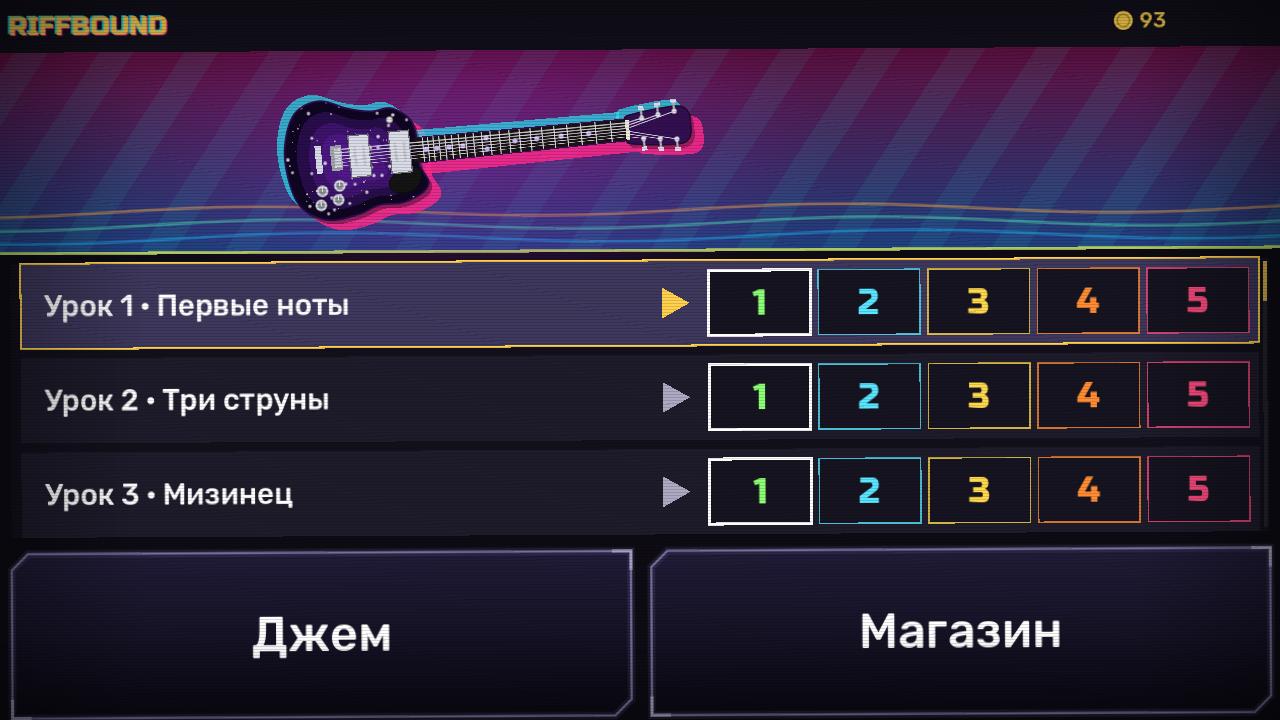
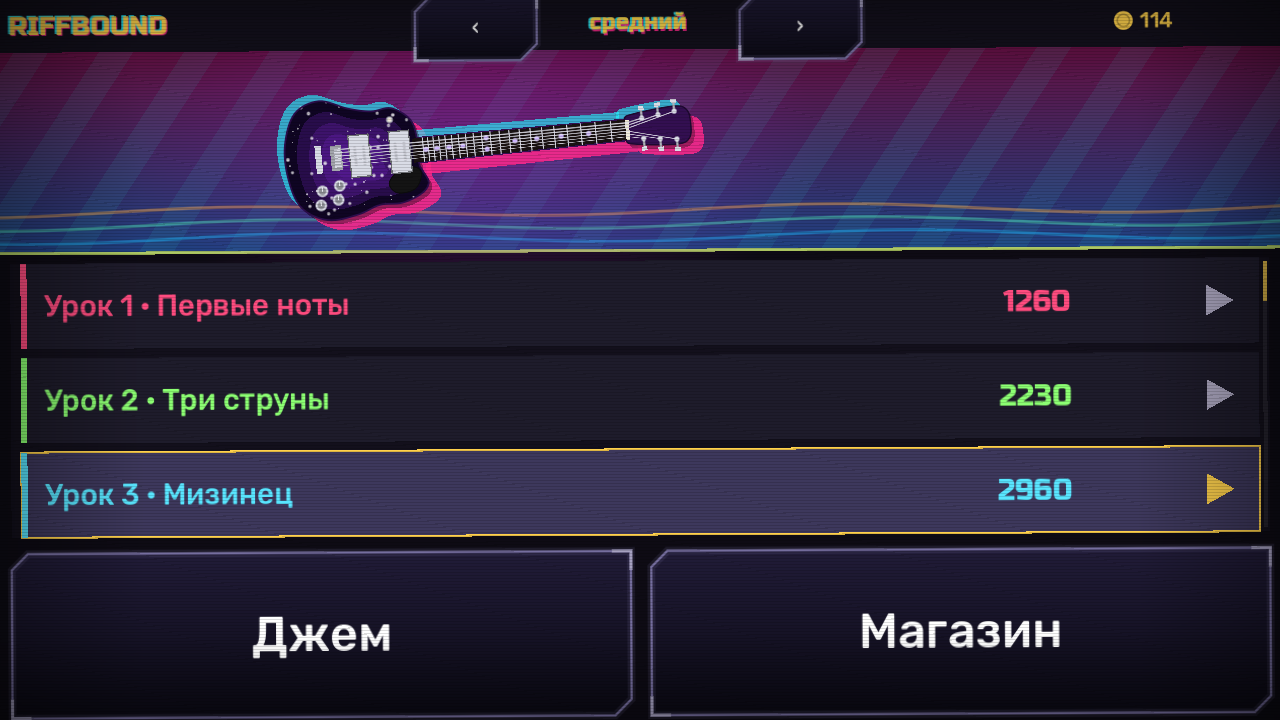
Провал как в OSU, цвет и рекорд песни в списке, версия 0.7
- две ошибки подряд (пропуски; аккорд — одна) — провал: песня обрывается, ни рекорда, ни монет;
  красные точки у счёта — сколько ошибок ещё можно
- уровень пройден, если доиграл; песня в списке — цветом самого сложного пройденного уровня, справа — рекорд на нём
- уровень выбранной песни — сверху меню (на сенсоре стрелки ‹ ›), квадратики 1–5 убраны
- --demo-passed для снимков меню

diff --git a/CLAUDE.md b/CLAUDE.md
@@ -125,7 +125,7 @@
 - Жест для снимка (`dev/gestures.gd`): `[время, палец, press|drag|lift|wiggle, кнопка, сдвиг от её середины]`;
   wiggle — палец качается вокруг сдвига, пока не придёт его следующий шаг.
 - Аргументы разработки (после `--`): `--test`, `--sim`, `--screenshot=<png>` (`--at=<с>`, `--autoplay`, `--jam`,
-  `--menu`, `--shop --skin=N`, `--gesture=<имя>`), `--difficulty=novice|easy|medium|hard|expert`, `--song=N` (с 1), `--play`, `--jam`, `--backing=<id>`, `--touch`
+  `--menu`, `--demo-passed` — пройденные уровни для снимка меню, только в памяти, `--shop --skin=N`, `--gesture=<имя>`), `--difficulty=novice|easy|medium|hard|expert`, `--song=N` (с 1), `--play`, `--jam`, `--backing=<id>`, `--touch`
   (мышь как палец), `--metronome`, `--more` (панель «Ещё»), `--tones` (громкость гитар).
 
 ## Почему так (неочевидное)
@@ -134,6 +134,10 @@
 - Метроном выключенный играет беззвучно, а не стоит: так при включении он не сбивается с доли.
 - Окно прощения `Fretboard.LENIENCY`: лад, зажатый чуть позже удара, считается ладом этого удара (звук удара
   тогда звучит ещё раз — `corrected`). Легато открыто `LEGATO_WINDOW` с последней ноты на струне.
+- Провал как в OSU: `SongJudge.MISTAKES_TO_FAIL` (2) пропуска подряд — `failed`, факт `fail`, песня кончается;
+  ошибки считаются по слотам (пропущенный аккорд — одна), попадание их обнуляет; «не та нота» не считается — её
+  ловит пропуск той же ноты. Пройден уровень = есть рекорд на нём (`Difficulty.passed`): рекорд пишется, только если
+  доиграл (`Main._reward`). Цвет песни в меню — самый сложный пройденный уровень, рядом — рекорд на нём.
 - Сложность упрощает ноты песни при старте (`Difficulty.simplify` в `SongJudge.start`), окно попадания —
   `Timing.leniency`. Защита от двойного удара (`Timing.REPEAT_GUARD`) не растёт с окном: иначе повтор одной ноты
   восьмыми принимался за дребезг. Бот (`--sim`) по умолчанию играет «эксперт», `--difficulty=novice|easy|medium|hard` — другие; на уровнях с
